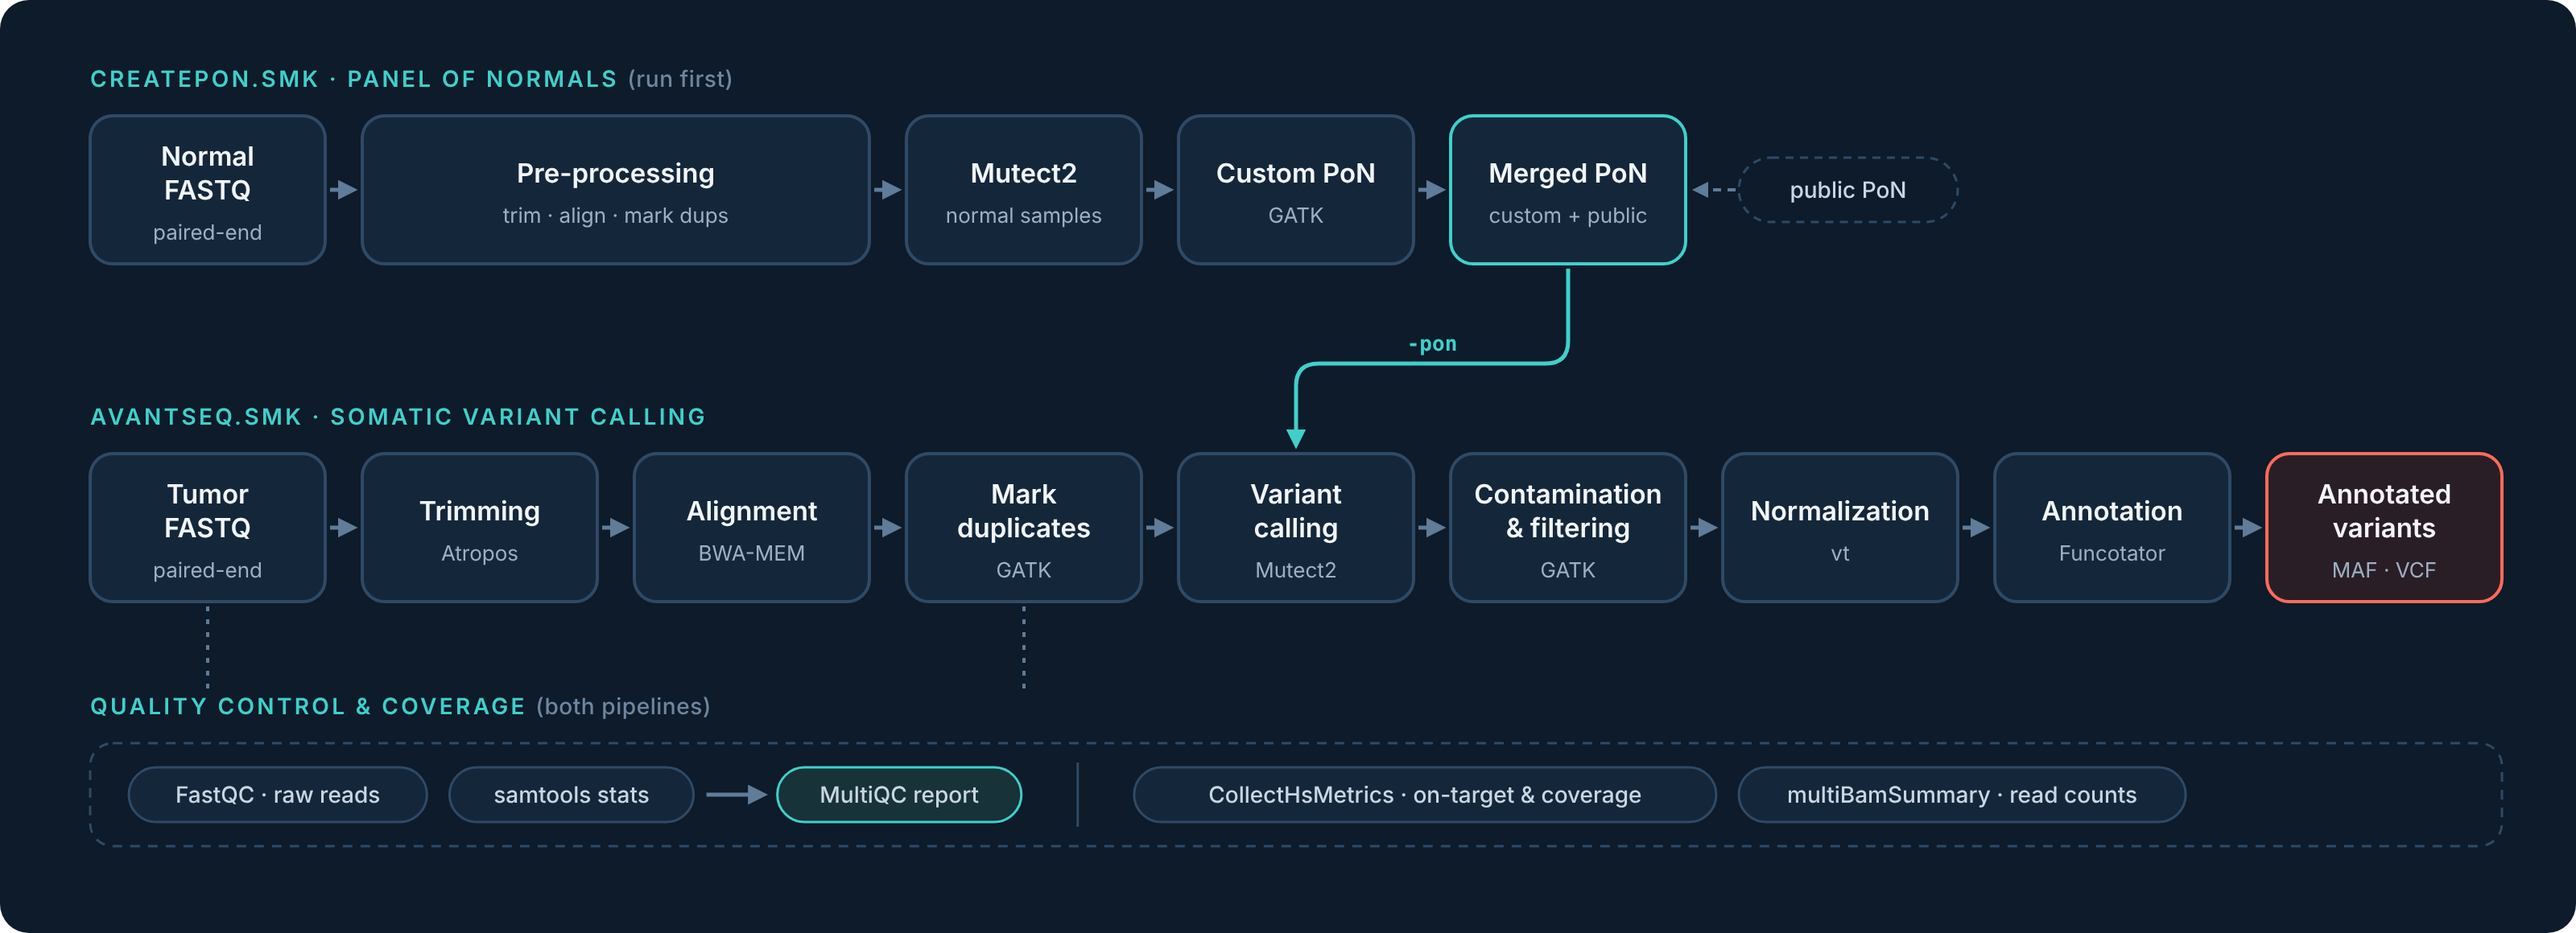
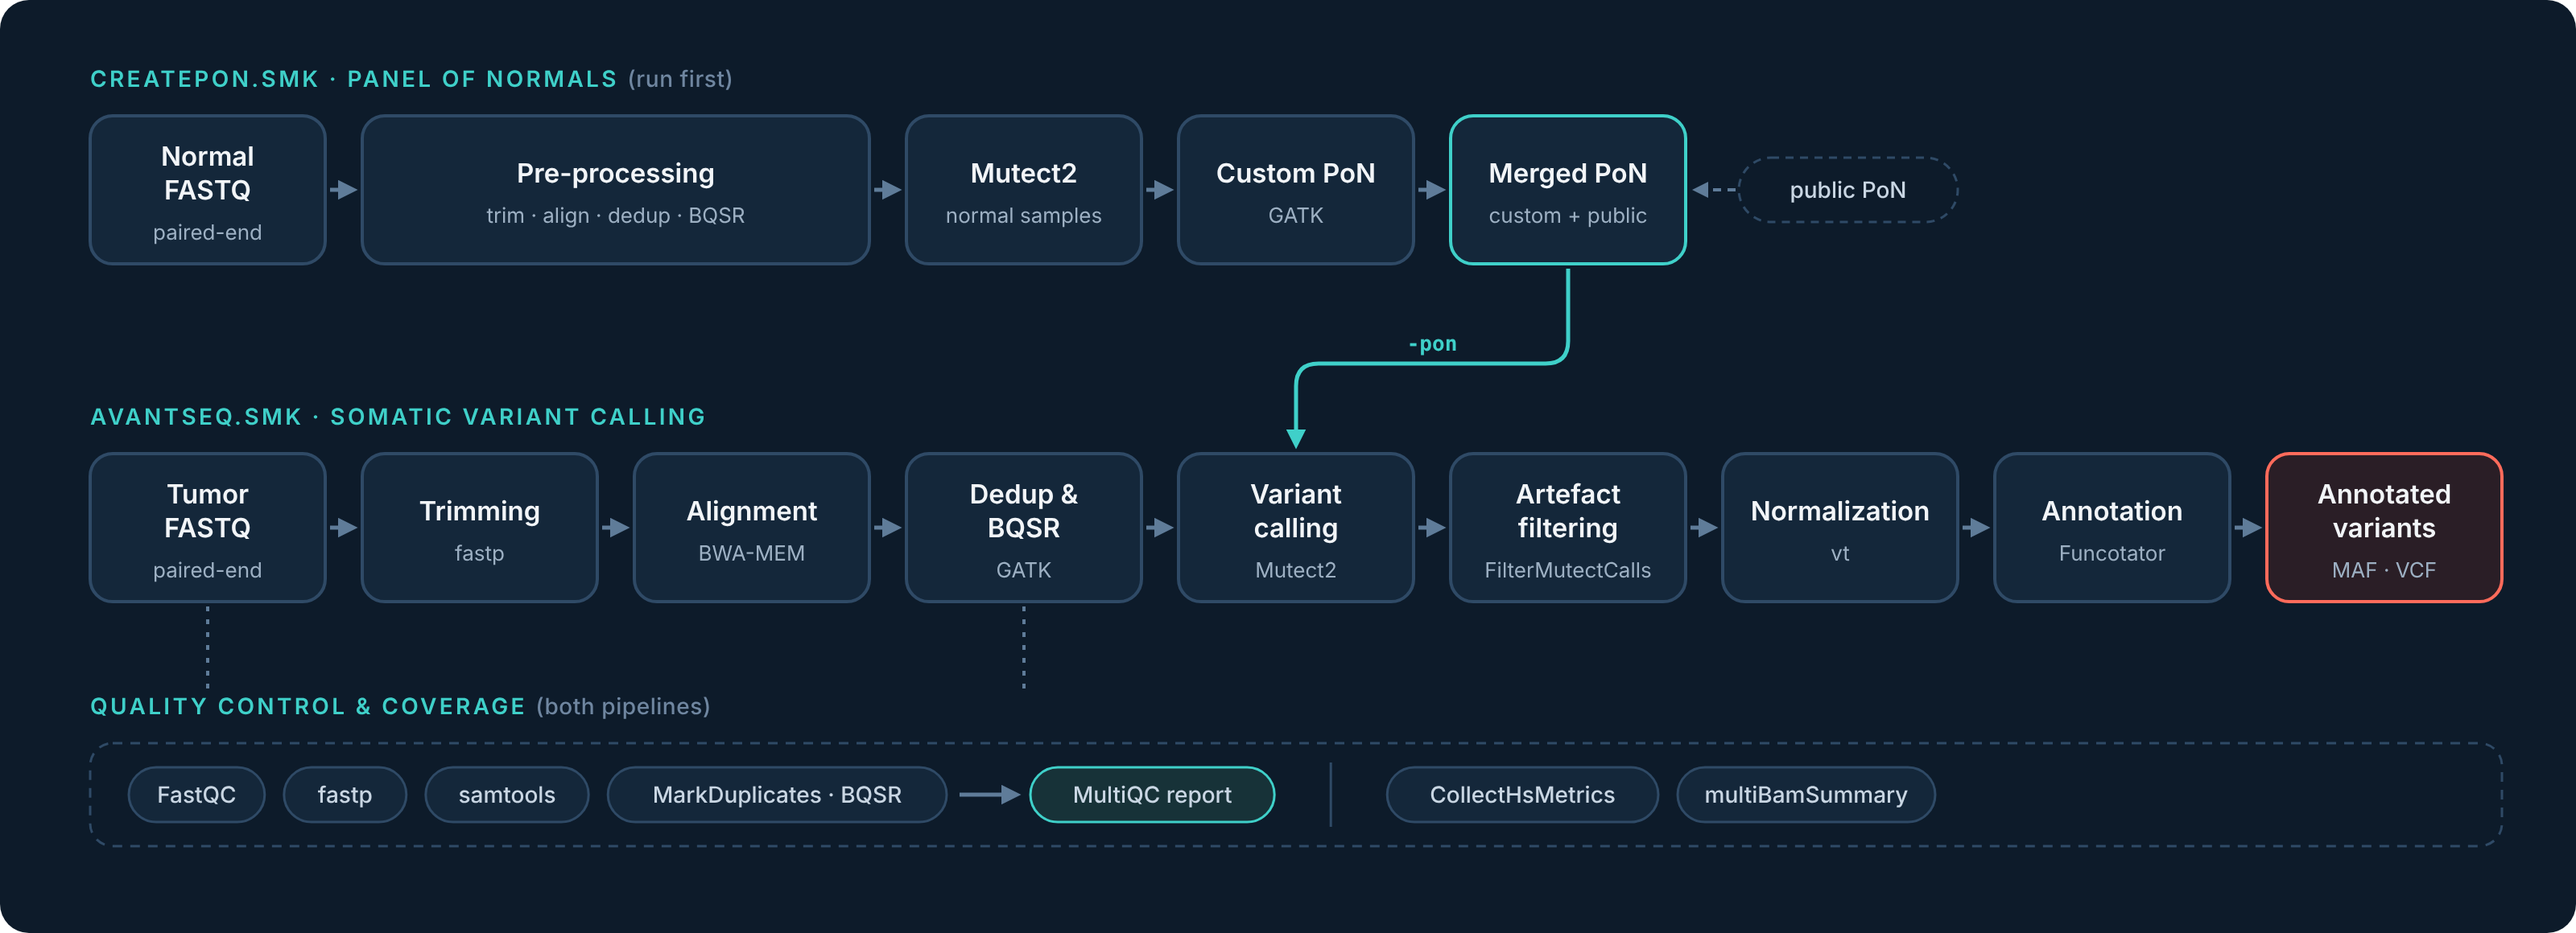
AVANTseq v1.1.0: BQSR, orientation bias filtering, fastp

diff --git a/README.md b/README.md
@@ -4,14 +4,14 @@
 
 [![DOI](https://zenodo.org/badge/DOI/10.5281/zenodo.23212970.svg)](https://doi.org/10.5281/zenodo.23212970) ![License: MIT](https://img.shields.io/badge/License-MIT-yellow.svg) ![Snakemake](https://img.shields.io/badge/snakemake-≥8-brightgreen.svg)
 
-**AVANTseq** is a modular, Snakemake-based workflow for high-confidence somatic variant calling from paired-end targeted NGS data. It includes:
+**AVANTseq** is a modular, Snakemake-based workflow for high-confidence somatic variant calling from paired-end targeted NGS data, following the GATK best practices for somatic short variant discovery (tumor-only mode). It includes:
 
 - A pipeline for generating a custom **Panel of Normals (PoN)**
 - A downstream **variant calling pipeline** using GATK Mutect2 with the generated PoN
 
 ## Workflow overview
 
-![AVANTseq workflow: the CreatePoN pipeline builds a merged custom + public Panel of Normals from normal samples; the AVANTseq pipeline trims (Atropos), aligns (BWA-MEM), marks duplicates, calls somatic variants with Mutect2 using the merged PoN, estimates contamination and filters, normalizes (vt) and annotates (Funcotator) to MAF, with FastQC, samtools, MultiQC, CollectHsMetrics and multiBamSummary QC](docs/avantseq-workflow.png)
+![AVANTseq workflow: the CreatePoN pipeline builds a merged custom + public Panel of Normals from normal samples; the AVANTseq pipeline trims reads (fastp), aligns (BWA-MEM), marks duplicates and recalibrates base qualities (GATK BQSR), calls somatic variants with Mutect2 using the merged PoN, filters using contamination and read orientation bias models, normalizes (vt) and annotates (Funcotator) to MAF, with FastQC, fastp, samtools, MultiQC, CollectHsMetrics and multiBamSummary QC](docs/avantseq-workflow.png)
 
 <details>
 <summary>Show the full Snakemake rule graphs</summary>
@@ -43,11 +43,11 @@ Both workflows are modular, configurable via YAML, and built for reproducibility
 ```plaintext
 AVANTseq/
 ├── rules/
-│   ├── trim.smk                # Trim raw fastq reads with atropos
-│   ├── align.smk               # Align trimmed reads using bwa mem
+│   ├── trim.smk                # Trim adapters and low-quality bases with fastp
+│   ├── align.smk               # Align with bwa mem, mark duplicates and recalibrate base qualities (BQSR)
 │   ├── qc.smk                  # Check sequencing and alignment quality
 │   ├── pon.smk                 # Generate a custom PoN and merge with an existing one
-│   ├── variants.smk            # Call and annotate somatic variants with mutect2 and funcotator
+│   ├── variants.smk            # Call, filter and annotate somatic variants (Mutect2, orientation bias, Funcotator)
 ├── config/
 │   ├── config.yaml             # Configuration file containing the paths for required files (shared by both pipelines)
 │   ├── samples_normal.yaml     # Normal samples list (used by CreatePoN.smk)
@@ -64,11 +64,11 @@ AVANTseq/
 
 To run this pipeline, the following tools must be installed and available in your `PATH`:
 
-- [Atropos](https://atropos.readthedocs.io/) – adapter trimming and filtering  
 - [BWA](http://bio-bwa.sourceforge.net/) – read alignment  
 - [deepTools](https://deeptools.readthedocs.io/) – coverage summary (multiBamSummary)  
 - [FastQC](https://www.bioinformatics.babraham.ac.uk/projects/fastqc/) – quality control of FASTQ files  
-- [GATK 4.x](https://gatk.broadinstitute.org/) – variant calling (Mutect2, etc.)  
+- [fastp](https://github.com/OpenGene/fastp) – adapter and quality trimming  
+- [GATK 4.x](https://gatk.broadinstitute.org/) – duplicate marking, BQSR, variant calling and filtering (Mutect2, etc.)  
 - [MultiQC](https://multiqc.info/) – summary reports of QC metrics  
 - [Snakemake](https://snakemake.readthedocs.io/) ≥ 8 – workflow management  
 - [samtools](http://www.htslib.org/) – BAM file processing  
@@ -92,6 +92,8 @@ The configuration YAML file should define all necessary file paths and sample na
 - `ref_bwa`: Reference genome BWA index file (for alignment)
 - `ref_fa`: Reference genome FASTA file (for variant calling)
 - `ref_version`: Genome build used by Funcotator (`hg38` or `hg19`)
+- `known_sites`: List of known variant VCFs for BQSR (e.g. dbSNP, Mills & 1000G indels from the GATK resource bundle)
+- `fastp_cut_tail_quality`, `fastp_min_length`, `fastp_extra`: Trimming settings for fastp (adapters are detected automatically)
 - `bed`: BED file for coverage metrics
 - `baits`: Interval list for baited regions
 - `targets`: Interval list for target regions
@@ -127,8 +129,14 @@ samples:
 snakemake -s CreatePoN.smk --dry-run
 snakemake -s AVANTseq.smk --dry-run
 ```
-- This workflow assumes input FASTQ files are gzip-compressed (`.fastq.gz`). If your input files are uncompressed (`.fastq`), please update the `trim.smk` and `qc.smk` (FastQC) rules accordingly by replacing the expected file extensions.  
+- This workflow assumes input FASTQ files are gzip-compressed (`.fastq.gz`). If your input files are uncompressed (`.fastq`), please update the `trim.smk` (fastp) and `qc.smk` (FastQC) rules accordingly by replacing the expected file extensions.  
 
+
+## Notes and limitations
+
+- AVANTseq calls variants in **tumor-only mode**: rare germline variants absent from gnomAD and from the Panel of Normals can remain in the output.
+- Merging the custom and public Panels of Normals is a design choice of AVANTseq, not a GATK best-practice step (see [docs/PoN.md](docs/PoN.md)).
+- More details in [docs/AVANTseq.md](docs/AVANTseq.md#notes-and-limitations).
 
 ## Citation
 

diff --git a/docs/AVANTseq.md b/docs/AVANTseq.md
@@ -30,7 +30,7 @@ The AVANTseq pipeline generates the following output files for each sample, grou
 #### Quality Control and Alignment
 
 - `alignment/bams/{sample}.bam`  
-  Aligned sequencing reads in **BAM** format, generated with **BWA-MEM** and post-processed (sorted, duplicate-marked).
+  Analysis-ready reads in **BAM** format: trimmed with **fastp**, aligned with **BWA-MEM**, sorted, duplicate-marked and base-quality recalibrated (**GATK BQSR**).
 
 - `alignment/bams/{sample}.bam.bai`  
   Index file for the BAM, created with **samtools index** for rapid access.
@@ -39,8 +39,19 @@ The AVANTseq pipeline generates the following output files for each sample, grou
   Quality control reports from **FastQC** on the raw reads (R1 and R2), assessing read quality, GC content, adapter content, etc.  
   [FastQC documentation](https://www.bioinformatics.babraham.ac.uk/projects/fastqc/)
 
+- `alignment/qc/fastp/{sample}_fastp.html`, `alignment/qc/fastp/{sample}_fastp.json`  
+  Read trimming reports from **fastp** (adapter content, quality and length filtering, insert size).  
+  [fastp documentation](https://github.com/OpenGene/fastp)
+
+- `alignment/qc/markdup/{sample}_dedup_metrics.txt`  
+  Duplication metrics from **GATK MarkDuplicates**.
+
+- `alignment/qc/bqsr/{sample}_recal.table`  
+  Base quality recalibration model from **GATK BaseRecalibrator**, applied with **ApplyBQSR**.  
+  [GATK BQSR](https://gatk.broadinstitute.org/hc/en-us/articles/360035890531-Base-Quality-Score-Recalibration-BQSR)
+
 - `alignment/qc/multiqc_report.html`  
-  Aggregated report from **MultiQC**, summarizing FastQC and other QC metrics across all samples.  
+  Aggregated report from **MultiQC**, summarizing FastQC, fastp, samtools, MarkDuplicates and BQSR metrics across all samples.  
   [MultiQC documentation](https://multiqc.info/)
 
 ---
@@ -62,6 +73,9 @@ The AVANTseq pipeline generates the following output files for each sample, grou
   Raw somatic variant calls generated by **GATK Mutect2**, identifying SNVs and indels.  
   [GATK Mutect2](https://gatk.broadinstitute.org/hc/en-us/articles/360037593851-Mutect2)
 
+- `variants/mutect2/{sample}.f1r2.tar.gz`, `variants/mutect2/{sample}.read-orientation-model.tar.gz`  
+  F1R2 read orientation counts collected by Mutect2 and the orientation bias model learned with **LearnReadOrientationModel**, used by FilterMutectCalls to remove artefacts such as FFPE deamination and oxoG damage.
+
 - `variants/mutect2/{sample}.getpileupsummaries.table`  
   Table summarizing read counts at common germline sites, used for contamination estimation.
 
@@ -76,12 +90,20 @@ The AVANTseq pipeline generates the following output files for each sample, grou
 #### Filtering and Annotation
 
 - `variants/filtered/{sample}_filtered.vcf.gz`  
-  Filtered variant calls using **FilterMutectCalls**, removing likely false positives.
+  Variant calls annotated by **FilterMutectCalls** using the contamination estimate, tumor segmentation and orientation bias priors. Variants that fail a filter are kept but flagged in the `FILTER` column.
 
 - `variants/filtered/{sample}_filtered_norm_dec.vcf.gz`  
-  Normalized and decomposed VCF (with `.tbi` index), prepared for annotation using **vt**.  
+  Decomposed (`vt decompose -s`, multi-allelic sites split together with their per-allele fields) and then left-normalized (`vt normalize`) VCF, with `.tbi` index, prepared for annotation using **vt**.  
   [Unified representation of genetic variants](https://academic.oup.com/bioinformatics/article/31/13/2202/196142)
 
 - `variants/maf/{sample}.maf`  
-  Final annotated variant list in **Mutation Annotation Format (MAF)**, produced with **Funcotator**, suitable for reporting and downstream analysis.  
+  Final annotated variant list in **Mutation Annotation Format (MAF)**, produced with **Funcotator**, suitable for reporting and downstream analysis. Only variants that pass all filters are included.  
   [Funcotator documentation](https://gatk.broadinstitute.org/hc/en-us/articles/360037593891-Funcotator)
+
+---
+
+### Notes and limitations
+
+- **Tumor-only calling.** Without a matched normal, rare germline variants that are absent from gnomAD and from the Panel of Normals can remain in the final output. Interpret variants with a population allele frequency close to 0 and a VAF around 50% or 100% with care.
+- **Germline and PoN sites in the raw VCF.** Mutect2 runs with `--genotype-germline-sites` and `--genotype-pon-sites`, so the raw and filtered VCFs also contain these sites (flagged as `germline` or `panel_of_normals`). This keeps them available for downstream analyses such as clonality; they are removed from the final MAF.
+- **Contamination on small panels.** The contamination estimate is based on common germline sites inside the target regions. With small panels only a few informative sites are available, so the estimate is less precise.

diff --git a/docs/PoN.md b/docs/PoN.md
@@ -29,7 +29,7 @@ The PoN pipeline generates the following output files, grouped by analysis step.
 #### Quality Control and Alignment
 
 - `alignment/bams/{sample}.bam`  
-  BAM file of aligned reads for each normal sample, generated using **BWA-MEM**, sorted and with duplicates marked.
+  Analysis-ready BAM file for each normal sample: trimmed with **fastp**, aligned with **BWA-MEM**, sorted, duplicate-marked and base-quality recalibrated (**GATK BQSR**), exactly as for the tumor samples.
 
 - `alignment/bams/{sample}.bam.bai`  
   BAM index file for rapid access using **samtools index**.
@@ -38,8 +38,19 @@ The PoN pipeline generates the following output files, grouped by analysis step.
   Quality control reports from **FastQC** on the raw reads (R1 and R2), assessing read quality, GC bias, adapter contamination, etc.  
   [FastQC documentation](https://www.bioinformatics.babraham.ac.uk/projects/fastqc/)
 
+- `alignment/qc/fastp/{sample}_fastp.html`, `alignment/qc/fastp/{sample}_fastp.json`  
+  Read trimming reports from **fastp** (adapter content, quality and length filtering, insert size).  
+  [fastp documentation](https://github.com/OpenGene/fastp)
+
+- `alignment/qc/markdup/{sample}_dedup_metrics.txt`  
+  Duplication metrics from **GATK MarkDuplicates**.
+
+- `alignment/qc/bqsr/{sample}_recal.table`  
+  Base quality recalibration model from **GATK BaseRecalibrator**, applied with **ApplyBQSR**.  
+  [GATK BQSR](https://gatk.broadinstitute.org/hc/en-us/articles/360035890531-Base-Quality-Score-Recalibration-BQSR)
+
 - `alignment/qc/multiqc_report.html`  
-  Summary report from **MultiQC**, aggregating FastQC results across all normal samples.  
+  Summary report from **MultiQC**, aggregating FastQC, fastp, samtools, MarkDuplicates and BQSR metrics across all normal samples.  
   [MultiQC documentation](https://multiqc.info/)
 
 ---
@@ -66,7 +77,7 @@ The PoN pipeline generates the following output files, grouped by analysis step.
 #### Panel of Normals Output
 
 - `variants/mutect2/pon/custom_pon.vcf.gz`  
-  Custom panel of normals VCF file generated from all normal sample calls with **CreateSomaticPanelOfNormals**.
+  Custom panel of normals VCF file generated from all normal sample calls (combined with **GenomicsDBImport**) with **CreateSomaticPanelOfNormals**, using the gnomAD germline resource to exclude common germline sites.
 
 - `variants/mutect2/pon/pon_sorted.vcf.gz`  
   Sorted custom panel of normals.
@@ -75,3 +86,8 @@ The PoN pipeline generates the following output files, grouped by analysis step.
   Final panel of normals (custom + public), used by `AVANTseq.smk` for somatic variant calling in tumor samples.
 
 ---
+
+### Why merge the custom and public PoN?
+
+Merging Panels of Normals is not part of the GATK best practices. AVANTseq does it so that two kinds of recurrent sites are flagged during variant calling: technical artefacts specific to your assay and laboratory (custom PoN) and sites that recur across many public normal samples (public PoN). Mutect2 uses the PoN to flag calls (`panel_of_normals` filter), not to remove reads, so the merged PoN only adds sites to that filter.
+

diff --git a/CHANGES_v1.1.0.md b/CHANGES_v1.1.0.md
@@ -1,0 +1,27 @@
+# AVANTseq v1.1.0 – GATK best-practice alignment
+
+## New
+- **Base quality score recalibration (BQSR)** in both pipelines: GATK BaseRecalibrator (restricted to the target regions + 50 bp) and ApplyBQSR. Requires the new `known_sites` list in `config/config.yaml` (e.g. dbSNP, Mills & 1000G indels).
+- **Read orientation bias filtering**: Mutect2 now collects F1R2 counts, LearnReadOrientationModel learns orientation bias priors and FilterMutectCalls uses them (`--ob-priors`). Removes artefacts such as FFPE deamination and oxoG damage.
+- **fastp replaces Atropos** for trimming: automatic paired-end adapter detection, 3' quality trimming and length filtering. Settings are configurable in `config/config.yaml` (`fastp_cut_tail_quality`, `fastp_min_length`, `fastp_extra`). fastp reports are included in MultiQC.
+
+## Fixed
+- Adapters were not trimmed in previous versions (Atropos ran with `--no-default-adapters` and no adapter sequence).
+- vt: multi-allelic records are now decomposed first (`vt decompose -s`, which also splits per-allele fields such as AD and AF) and then normalized, as recommended by vt.
+
+## Changed
+- CreateSomaticPanelOfNormals uses the gnomAD germline resource (`--germline-resource`), as in the GATK PoN workflow.
+- GenomicsDBImport uses the same 50 bp interval padding as Mutect2 and `--merge-input-intervals true` (much faster with many panel intervals).
+- GetPileupSummaries is restricted to common sites inside the target regions.
+- Read groups now include a library tag (`LB`).
+- MultiQC also collects MarkDuplicates and BQSR metrics; duplicate metrics moved to `alignment/qc/markdup/`.
+- The `{sample}` wildcard is constrained to the names in the sample file.
+
+## Documentation
+- README and docs updated (fastp, BQSR, orientation model, new outputs and config keys), new "Notes and limitations" sections (tumor-only calling, merged PoN rationale, germline/PoN sites in the VCF, contamination on small panels).
+- Workflow overview diagram and rule graphs updated.
+
+## Upgrading from v1.0.x
+- Add `known_sites` (and optionally the `fastp_*` settings) to your `config/config.yaml`.
+- Install fastp; Atropos is no longer needed.
+- Results differ from v1.0.x (BQSR, adapter trimming, orientation filtering), so re-run both pipelines, starting with CreatePoN.smk.
